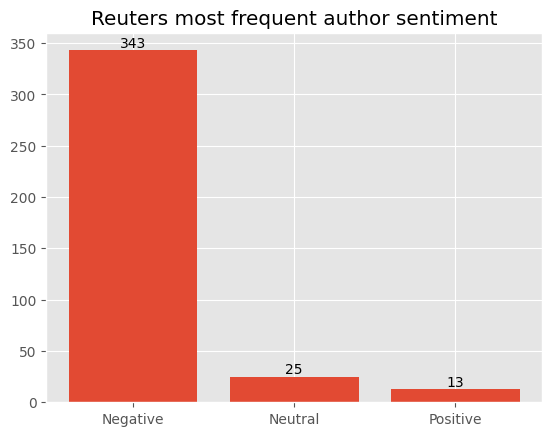
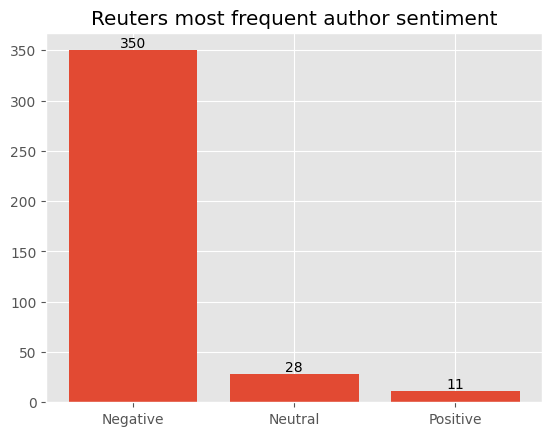
deploy: 80bb1b941b00a8a702e5e61ee0d90e4a2463590c

diff --git a/text-analysis/index.html b/text-analysis/index.html
@@ -102,8 +102,8 @@ First, we need to determine which sections are concerned with the same subjects 
 <img src=../images/NYT_Section-us.png alt></p><p>Comparing the word clouds for the Reuters Politics section and the NYT us section, we see that most words are the same including the predominant ones such as Trump, The White House, and democrat/republican.
 Some of the differences are the NYT having Sanders, referring to the very left leaning senator Bernie Sanders while Reuters have wall and Mexico, referring to Trump&rsquo;s promise of building a wall on the boarder of Mexico.
 Although it&rsquo;s impossible to draw any significant conclusions on these differences, on possible interpretation is that the NYT focusses more on the politics and politicians of the Democratic party while Reuters focuses more on the major talking points of the compaigns.</p><h1 id=sentiment-analysis>Sentiment Analysis</h1><p>We used sentiment analysis on all the articles for each publication to look for some general trends in each publication.
-The table below shows how many articles was classified with a given sentiment for each publication</p><table><thead><tr><th style=text-align:center></th><th style=text-align:center>Reuters</th><th style=text-align:center>NYT</th></tr></thead><tbody><tr><td style=text-align:center>Negative</td><td style=text-align:center>46,478 (83%)</td><td style=text-align:center>16,995 (70%)</td></tr><tr><td style=text-align:center>Neutral</td><td style=text-align:center>5,759 (10%)</td><td style=text-align:center>3,821 (16%)</td></tr><tr><td style=text-align:center>Positive</td><td style=text-align:center>3,809 (7%)</td><td style=text-align:center>3,561 (14%)</td></tr></tbody></table><p>Clearly, both publications share the same trend of the vast majority of articles having a negative sentiment. However, Reuters take the lead in being the most negative with 83% of their articles being negative and only 7% being positive. Percentwise, the NYT has twice as many positive but still pretty low a 14%.
-While these results were unexpected, it is perhaps not that surprising as it is a well known phenomenon that <a href=https://www.bbc.com/future/article/20140728-why-is-all-the-news-bad>the average person is drawn to negative news</a> and publications print what sells.</p><p>We thought it interesting to look at if the negative sentiment is caused by a few high-throughput authors or if most authors write with this sentiment.
+The table below shows how many articles was classified with a given sentiment for each publication</p><table><thead><tr><th style=text-align:center></th><th style=text-align:center>Reuters</th><th style=text-align:center>NYT</th></tr></thead><tbody><tr><td style=text-align:center>Negative</td><td style=text-align:center>47,651 (83%)</td><td style=text-align:center>17,376 (73%)</td></tr><tr><td style=text-align:center>Neutral</td><td style=text-align:center>5,812 (10%)</td><td style=text-align:center>3,384 (14%)</td></tr><tr><td style=text-align:center>Positive</td><td style=text-align:center>3,666 (7%)</td><td style=text-align:center>3,036 (13%)</td></tr></tbody></table><p>Clearly, both publications share the same trend of the vast majority of articles having a negative sentiment. However, Reuters take the lead in being the most negative with 83% of their articles being negative and only 7% being positive. Percentwise, the NYT has almost twice as many positive articles than Reuters but it is still pretty low a 13%.
+While we did not expect these results, perhaps we should have as it is a well known phenomenon that <a href=https://www.bbc.com/future/article/20140728-why-is-all-the-news-bad>the average person is drawn to negative news</a> and ultimately publications print what sells.</p><p>We thought it interesting to look at if the negative sentiment is caused by a few high-throughput authors or if most authors write with this sentiment.
 We therefore found all the articles that each author wrote in the dataset and determined the most frequent sentiment of each author. In this was, we can classify each author as majorily writing in a negative, neutral, or positive sentiment.
 The bar plots below show these findings
 <img src=../images/reuters_author_sentiment.png alt>
